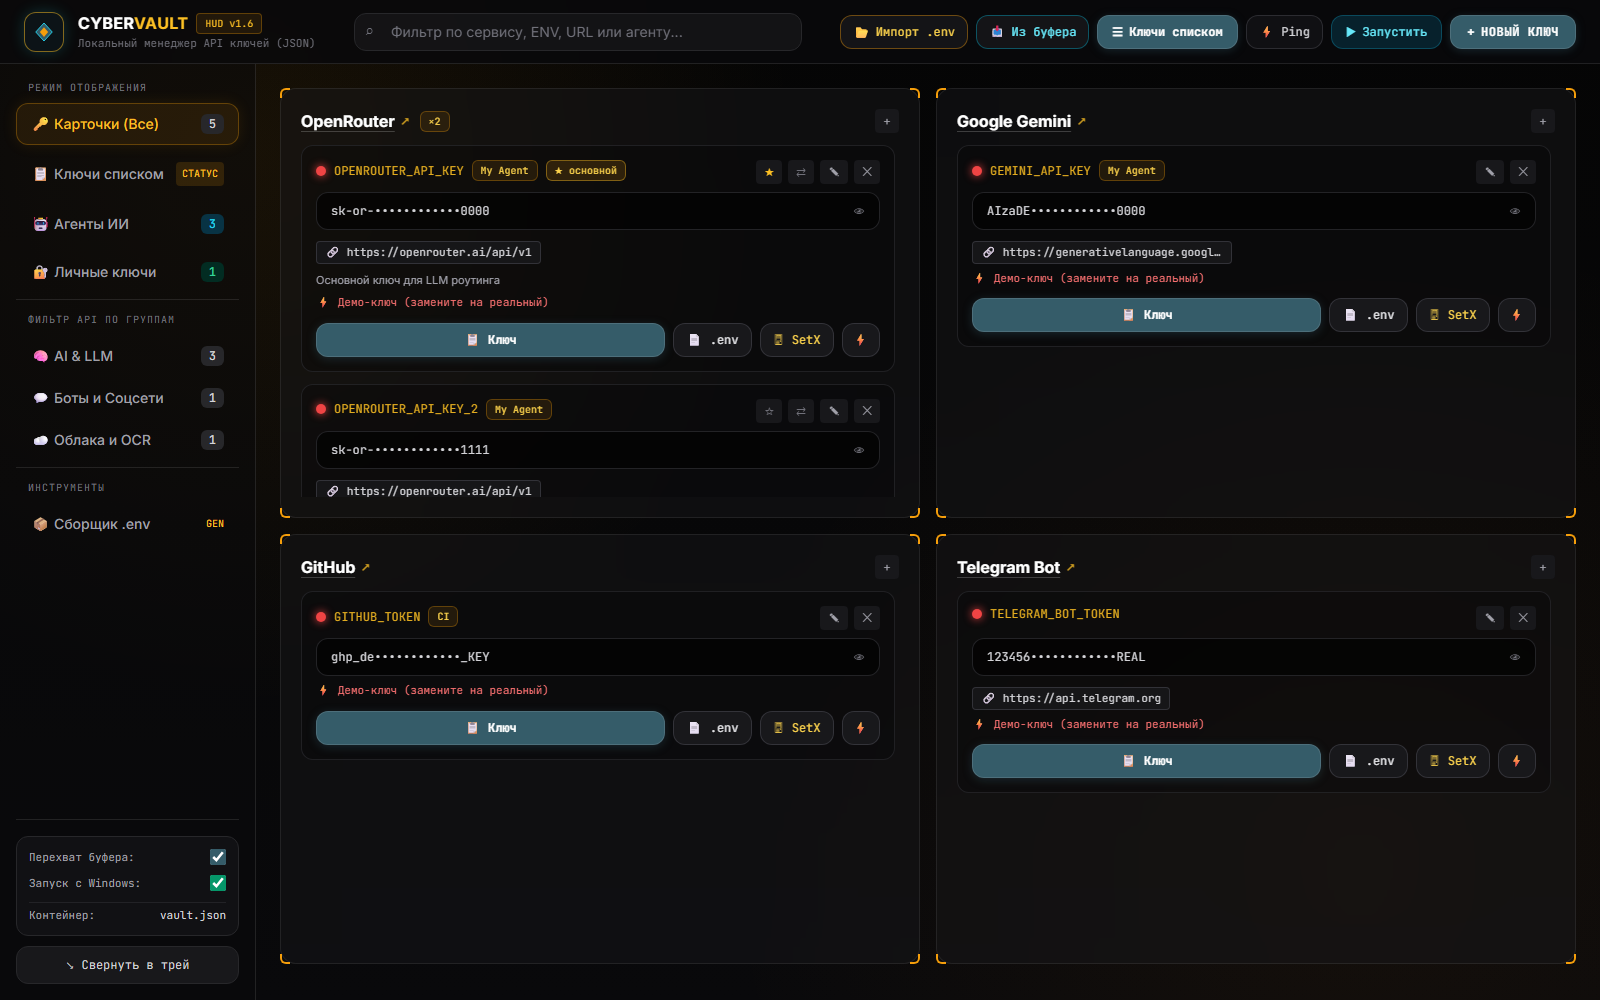
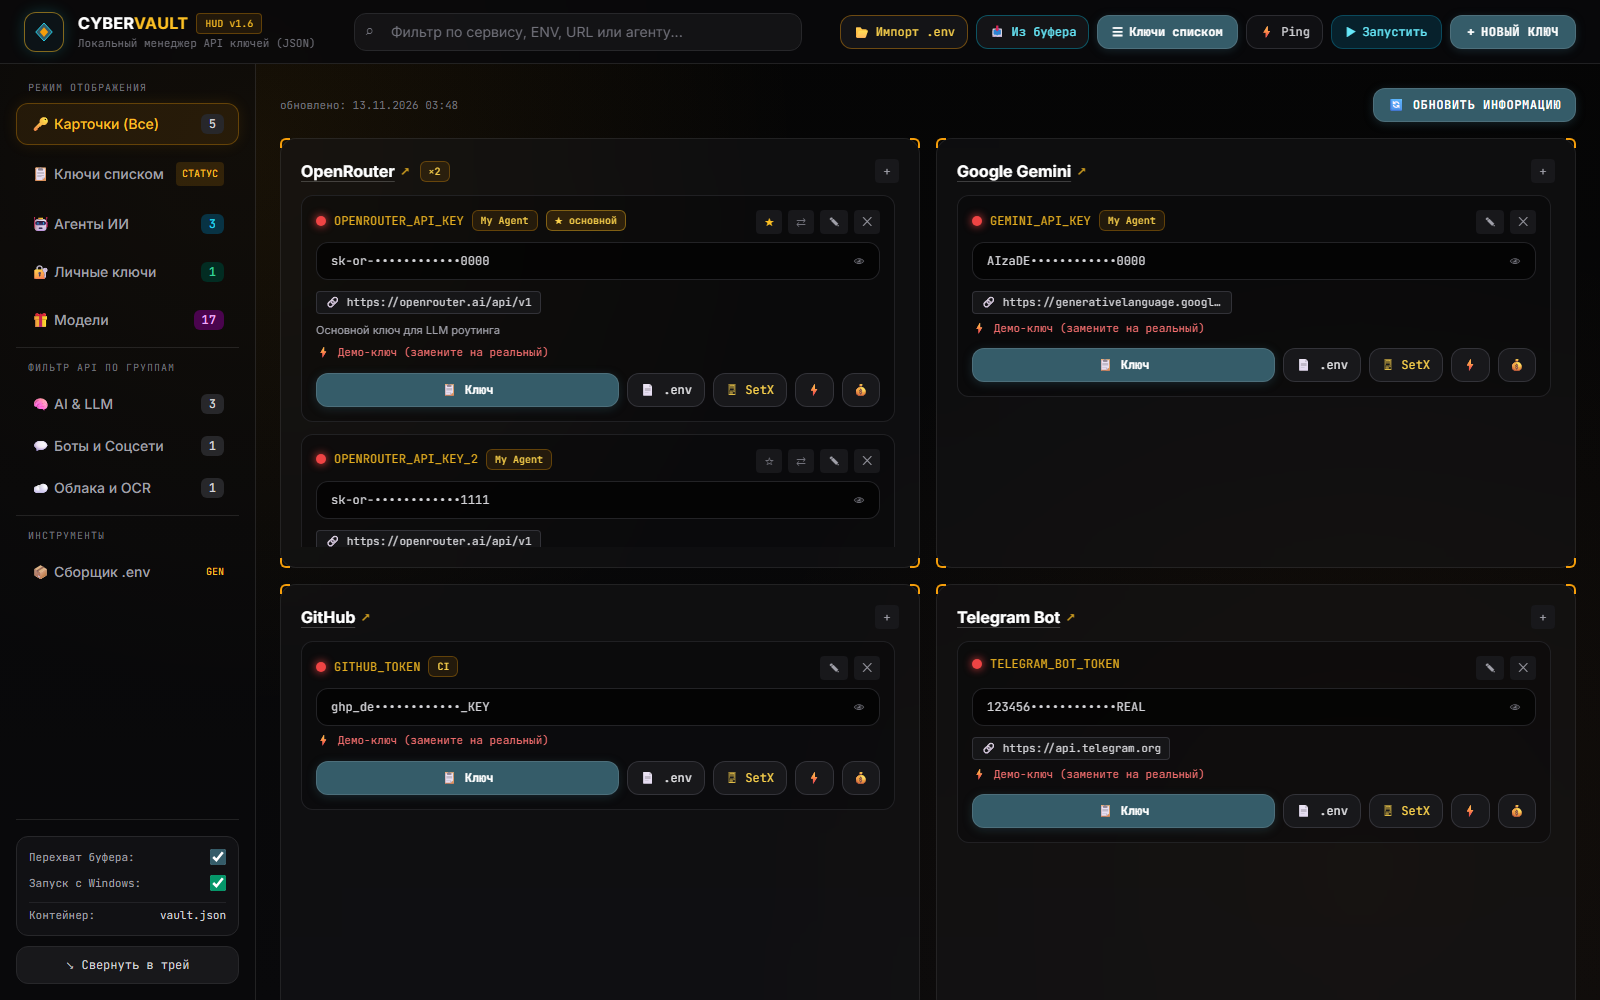
README и описание: вкладка «Сводка по моделям», скриншоты

diff --git a/ОПИСАНИЕ.md b/ОПИСАНИЕ.md
@@ -138,6 +138,33 @@ OPENROUTER_BASE_URL="https://openrouter.ai/api/v1"
 
 ---
 
+## 🎁 Сводка по моделям
+
+Вкладка **🎁 Модели** — какие бесплатные модели открывают ваши ключи.
+
+Кнопка **🔄 Обновить информацию** (вверху вкладки и над карточками ключей) запускает проверку
+**в фоне**: интерфейс не подвисает, рядом пишется прогресс «проверено 7 из 14».
+
+| Блок | Что показывает |
+|------|----------------|
+| Сводка | Уникальных бесплатных моделей, сколько из них доступны сразу нескольким ключам, сколько ключей проверено и сколько с ошибкой |
+| Таблица моделей | id модели, контекст и сколько ключей её открывают |
+| По ключам | Только ключи с бесплатными моделями: сколько моделей и сколько всего в каталоге |
+| Предупреждения | Битые ключи и провайдеры, у которых нет каталога моделей |
+
+Дополнительно для каждого ключа считывается **квота** (дневной лимит бесплатных запросов
+OpenRouter), **баланс** (Kimi) и **заголовки rate-limit**.
+
+**Как определяется бесплатная модель:** в id есть маркер `:free` или `free/` (а также `test` /
+`trial` отдельным словом) **и** провайдер не показывает ненулевую цену. Благодаря второй
+проверке платные `*-latest` модели в список не попадают.
+
+> 🔐 Ключ при проверке уходит **только своему провайдеру** — по `base_url` из карточки.
+> Результат лежит в `models_cache.json` (только id моделей и провайдеров, **без значений
+> ключей**); файл закрыт в `.gitignore`. Автообновления нет — только по кнопке.
+
+---
+
 ## 🤖 Диспетчер ИИ-агентов
 
 Вкладка **🤖 Агенты ИИ** — запуск локальных и портативных агентов в один клик.
@@ -208,7 +235,7 @@ OPENROUTER_BASE_URL="https://openrouter.ai/api/v1"
 | Правило | Реализация |
 |---------|-----------|
 | 📦 Зависимости внутри проекта | `libs\` — `pystray`, `pillow`, `pyperclip` ставятся через `pip --target`, глобальный Python **не трогается** |
-| 🚫 Никаких записей наружу | Всё, что пишется, лежит внутри папки: `vault.json`, `libs\`, `backup\`, `notes\`, `app.log` |
+| 🚫 Никаких записей наружу | Всё, что пишется, лежит внутри папки: `vault.json`, `libs\`, `backup\`, `notes\`, `models_cache.json`, `app.log` |
 | 🧹 Чистый pip | `--no-cache-dir` + `TMP/TEMP`, перенаправленные в `.tmp\` внутри проекта (удаляется после установки) |
 | 🔐 Экспорт только внутри | Запись `.env` за пределы папки запрещена |
 | 📥 Импорт — только чтение | Импорт `.env` читает чужие папки, но пишет только в свой `vault.json` |
@@ -225,6 +252,7 @@ CYBER-VAULT\
 ├── app.py                 🧠 вся программа: Python-бэкенд + HTML/CSS/JS-интерфейс в одном файле
 ├── vault.json             🗄 хранилище ключей, агентов и личных секретов
 ├── vault.enc / vault.salt 🔐 заготовка под шифрованный бэкап
+├── models_cache.json      🎁 кэш сводки по моделям (собирается кнопкой)
 ├── libs\                  📦 локальные зависимости (pystray, pillow, pyperclip)
 ├── backup\                🗂 копии vault.json (кольцо из 20) + копии app.py
 ├── notes\                 📝 заметки личных ключей для Блокнота
